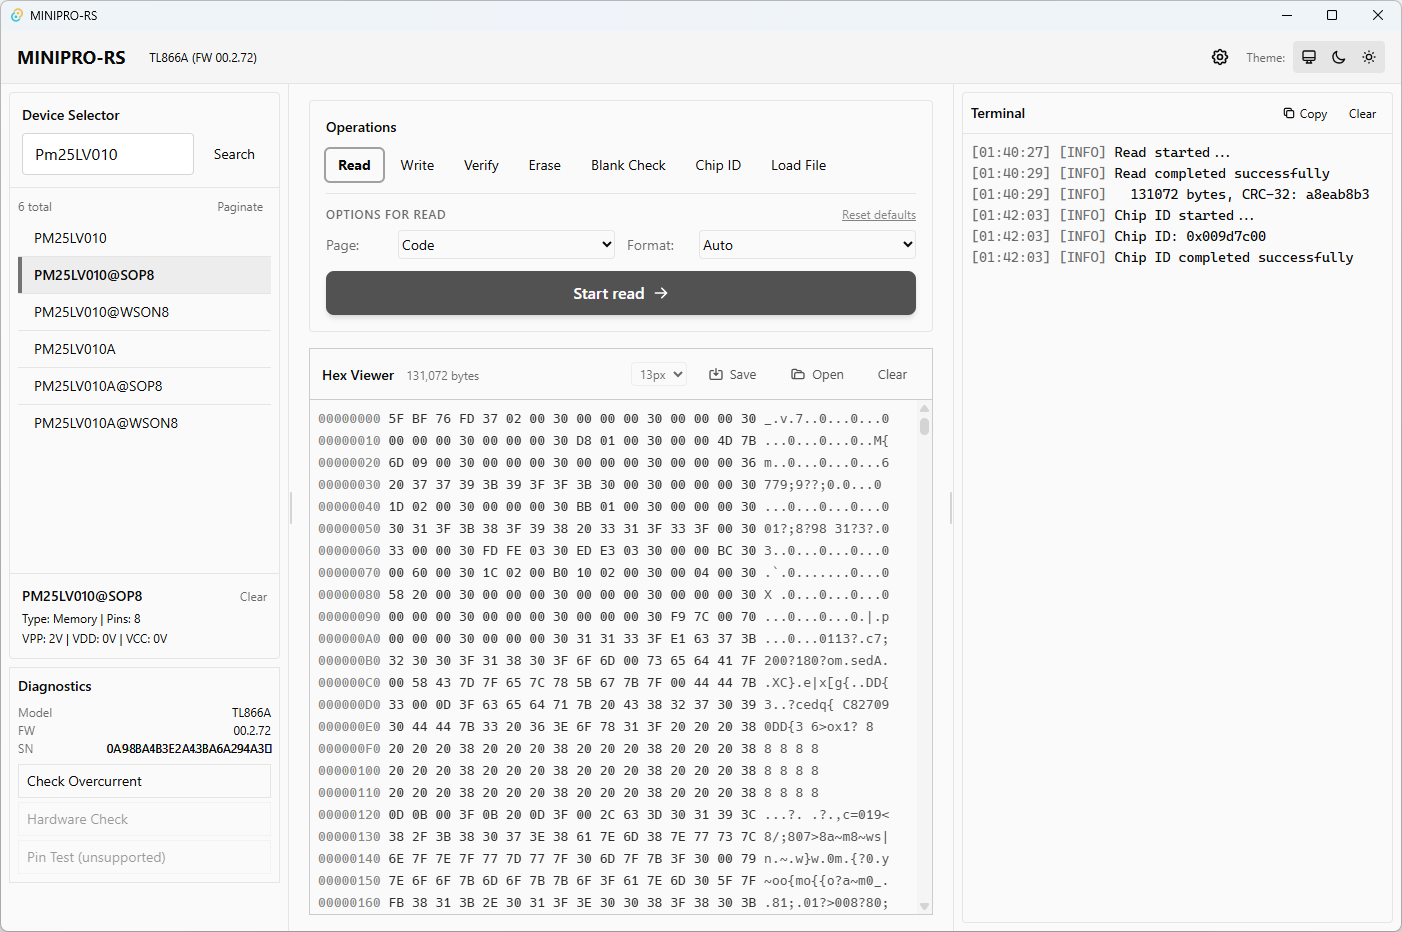
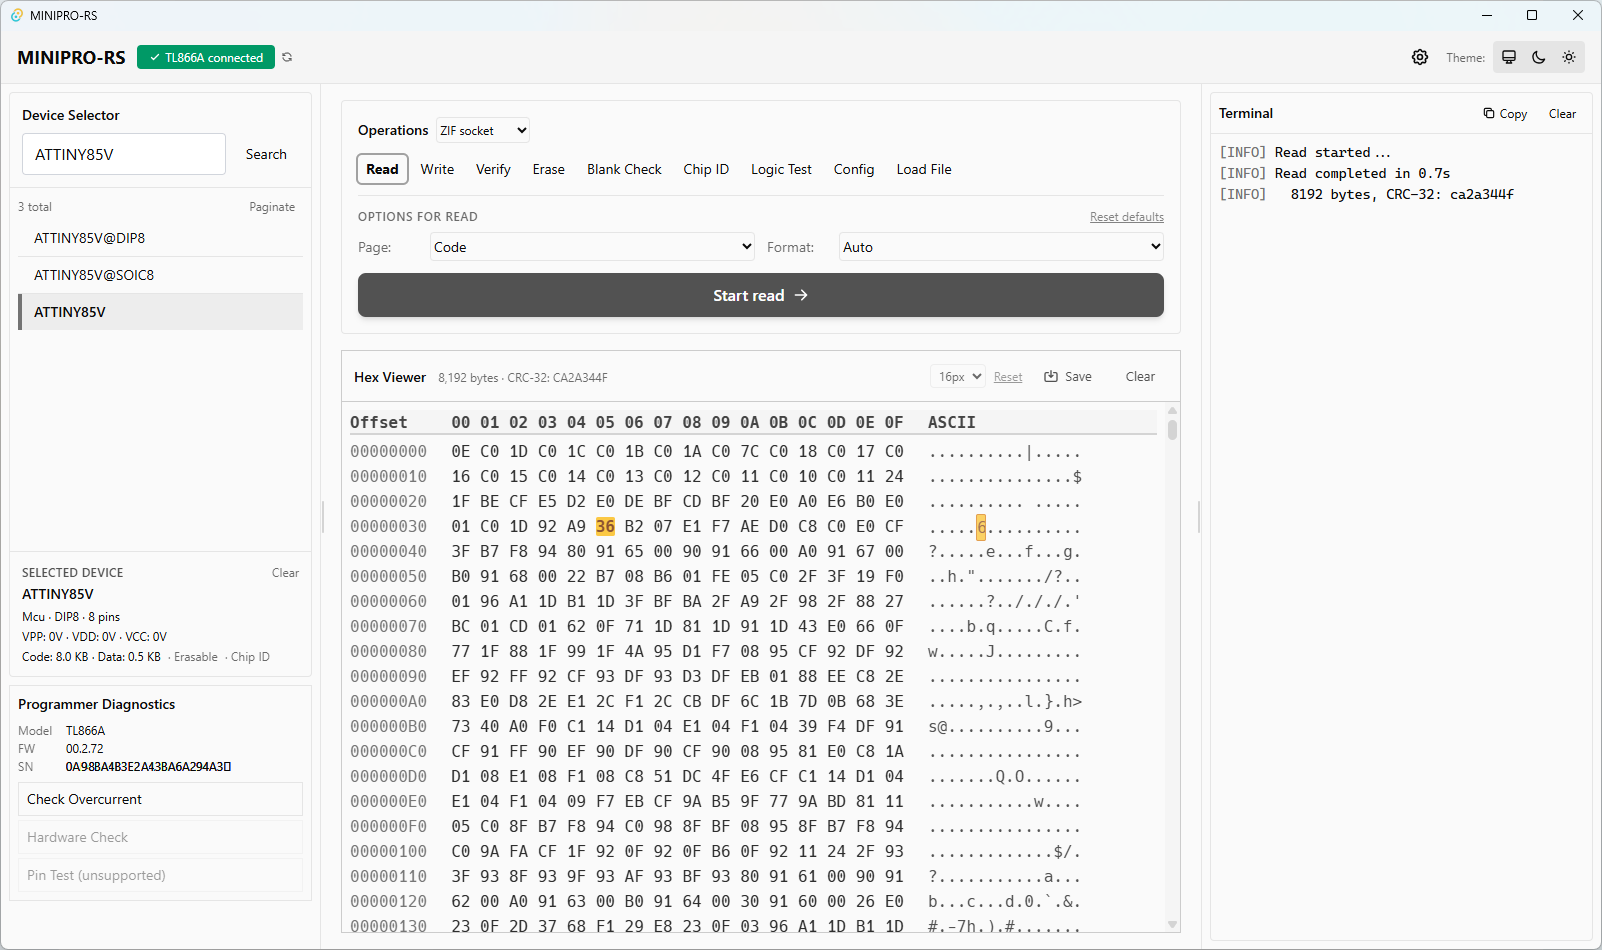
fix(t76): send 128-byte BEGIN_TRANS with SPI NOR geometry
The T76 firmware (V13.19 / fw 00.1.17) needs a 128-byte BEGIN_TRANS

with a chip-class geometry block in msg[0x40..0x7f]. Without it the FPGA

has no valid SPI setup, so SPI-NOR reads clock out all zeros.

For SPI 25-series (protocol_id 0x03 / 0x0f) pack the read-setup

constants verified by USB capture of XGPro.

Also bumps expected T76 firmware from 0.1.13 (0x10D) to 0.1.17 (0x111).

diff --git a/crates/minipro-core/src/protocol/t76.rs b/crates/minipro-core/src/protocol/t76.rs
@@ -22,7 +22,7 @@ use crate::{
 };
 
 /// Minimum firmware version for the T76.
-pub const MIN_FIRMWARE_T76: u32 = 0x10D; // 0.1.13
+pub const MIN_FIRMWARE_T76: u32 = 0x111; // 0.1.17
 
 // T76 firmware update constants
 const T76_UPDATE_FILE_VERSION: u32 = 0xf076_0000;
@@ -200,7 +200,11 @@ impl Protocol for T76Protocol {
 
         // 2. Send begin_transaction (custom bit-bang deferred to Phase 4).
         if !device.flags.custom_protocol {
-            let mut msg = build_begin_msg(device, icsp);
+            // T76 uses a 128-byte BEGIN_TRANS (vs 64-byte for T56).
+            // Bytes 0x00..0x3f are the standard chip parameters.
+            // Bytes 0x40..0x7f are a chip-class-specific FPGA-setup extension.
+            let mut msg = [0u8; 128];
+            msg[..64].copy_from_slice(&build_begin_msg(device, icsp));
 
             // T76 extras: I2C address and algorithm number
             if device.flags.can_adjust_address {
@@ -209,7 +213,20 @@ impl Protocol for T76Protocol {
             // msg[63] = high byte of variant = algorithm number
             msg[63] = (device.variant >> 8) as u8;
 
-            usb.msg_send(&msg)?;
+            // SPI 25-series NOR needs a geometry block in the extension area.
+            // Without it the FPGA has no valid SPI setup: reads clock out all
+            // zeros, READID returns 0x0000, and erase is a no-op.
+            // Values verified by USB capture of XGPro V13.19 (fw 00.1.17).
+            let is_spi_nor = device.protocol_id == 0x03 || device.protocol_id == 0x0f;
+            if is_spi_nor {
+                put_le32(&mut msg[0x40..0x44], 0x0800_0000); // read-setup word 1
+                put_le32(&mut msg[0x50..0x54], 0x0080_0000); // read-setup word 2
+                put_le32(&mut msg[0x60..0x64], 0x0f05_172f); // SPI clock config
+                msg[0x65] = 0x03;                              // SPI clock sub-config
+                usb.msg_send(&msg)?;
+            } else {
+                usb.msg_send(&msg[..64])?;
+            }
         }
 
         Ok(())